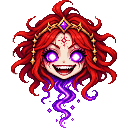
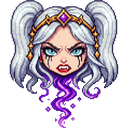
Changes

diff --git a/roadmap.md b/roadmap.md
@@ -29,3 +29,6 @@
 - [x] Assistant Mode switch for every theme + Dungeon Crawler Carl theme
 - [x] Remove pal voices (wasted power, not working)
 - [x] Carl wears pink Crocs
+- [x] Samantha redrawn (white pigtails, mascara tears, fangs)
+- [ ] Auto-save chats as you talk
+- [ ] Slide-out chat history side panel
